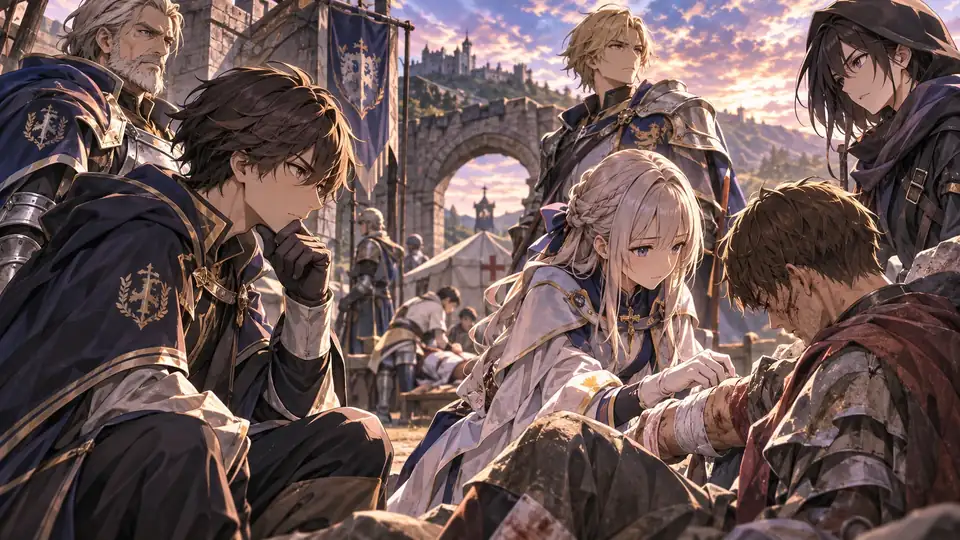
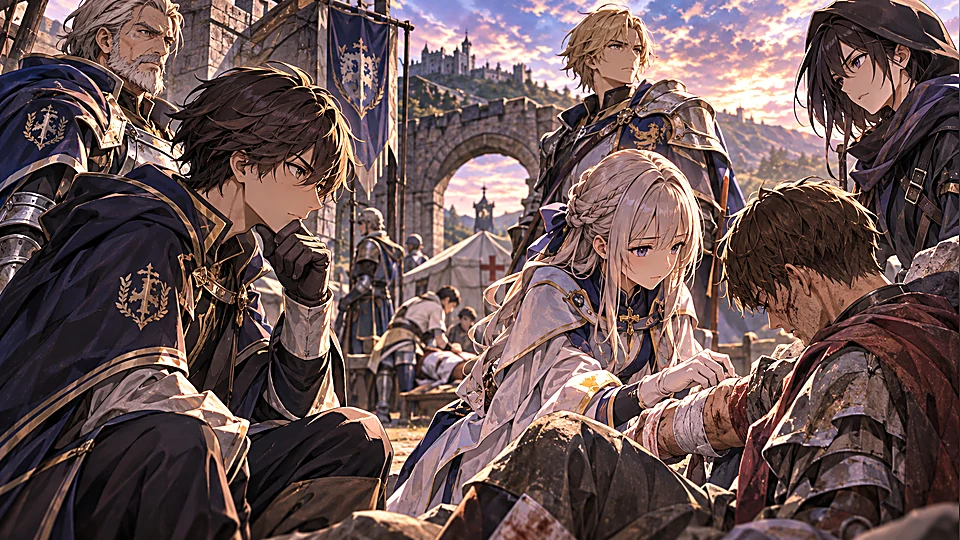
fix(story): replace all seven Chapter 1 repeated scenes and recast Garan voice (#157)
Register seven different real WebP images for c01-s01, fix mobile cache, switch Garan from frail elder to commanding knight voice, trigger VOICEVOX regeneration and publication, and test both art and speech. Existing 3D battle files are unchanged.

diff --git a/story-maintenance.html b/story-maintenance.html
@@ -83,7 +83,7 @@ import {mangaForStage} from './src/story-stage-manga.js';
 import {stageMangaImage} from './src/story-manga-art.js';
 import {applyCinematicImage,CINEMATIC_CAST_ASSETS} from './src/story-cinematic-assets.js';
 import {createMangaViewer} from './src/story-manga-viewer.js';
-import {createStoryVoiceDirector,STORY_VOICE_PROFILES} from './src/story-voice-director.js';
+import {createStoryVoiceDirector,STORY_VOICE_PROFILES,STORY_NARRATOR_PROFILE} from './src/story-voice-director.js';
 const $=id=>document.getElementById(id);
 const escapeHTML=x=>String(x??'').replace(/[&<>"']/g,c=>({'&':'&amp;','<':'&lt;','>':'&gt;','"':'&quot;',"'":'&#39;'}[c]));
 const active=loadGame(localStorage,sessionStorage);
@@ -159,8 +159,13 @@ $('characterGrid').onclick=event=>{
 void fetch('./audio/voicevox/manifest.json').then(r=>r.ok?r.json():null).then(data=>{
  const keys=Object.keys(data?.clips||{});
  const chapterClips=keys.filter(key=>key.startsWith('story::chapter::')).length;
- const panelClips=keys.filter(key=>key.startsWith('story::panel::')).length;
- $('voiceCoverage').textContent='VOICEVOX収録：章ナレーション '+chapterClips+'/20、各コマ台詞 '+panelClips+'/1400。未収録は端末の日本語ボイスに切り替わります。';
+ let currentPanelClips=0;
+ for(let ch=1;ch<=20;ch++)for(const stage of stagesInChapter(ch))for(const panel of mangaForStage(stage.id).panels){
+  const speaker=STORY_VOICE_PROFILES[panel.characterId]||STORY_NARRATOR_PROFILE;
+  const key='story::panel::'+panel.id+'::'+panel.text.slice(0,380)+'::'+speaker.voicevoxSpeaker;
+  if(data?.clips?.[key])currentPanelClips++;
+ }
+ $('voiceCoverage').textContent='VOICEVOX収録：章ナレーション '+chapterClips+'/20、現在の話者設定に合う各コマ台詞 '+currentPanelClips+'/1400。旧話者のキャッシュは完了数に含めません。';
 }).catch(()=>$('voiceCoverage').textContent='音声収録一覧を取得できません。端末読み上げで確認できます。');
 setChapter(Number(new URLSearchParams(location.search).get('chapter'))||1);
 renderCast();

diff --git a/src/story-voice-director.js b/src/story-voice-director.js
@@ -4,7 +4,7 @@
  */
 import {STORY_KEY_PEOPLE} from './story-cinematic.js';
 const characters={
- lucia:['四国めたん',.95,1.1],garan:['ちび式じい',.82,.77],iris:['雨晴はう',.92,1.16],
+ lucia:['四国めたん',.95,1.1],garan:['剣崎雌雄',1.02,.95],iris:['雨晴はう',.92,1.16],
  shion:['玄野武宏',.94,.88],kai:['白上虎太郎',1.07,1.03],leon:['剣崎雌雄',.87,.80],
  fio:['九州そら',.96,1.09],edo:['栗田まろん',.89,.91],mina:['春歌ナナ',1.04,1.30],
  noel:['中国うさぎ',.93,1.12],raizen:['玄野武宏',.86,.80],vald:['麒ヶ島宗麟',.78,.74],

diff --git a/src/story-cinematic-assets.js b/src/story-cinematic-assets.js
@@ -99,7 +99,7 @@ export function applyCinematicImage(node,panel,{background=false}={}){
  node.dataset.cinematicKey=key;
  const dedicated=individualStoryPanelAsset(panel);
  void (async()=>{
-  if(dedicated&&await getPicture(dedicated))return dedicated;
+  if(dedicated&&await getPicture(dedicated+'?panelrev=20261111-7'))return dedicated+'?panelrev=20261111-7';
   return cinematicPanelImage(panel);
  })().then(url=>{
   if(!url||node.dataset.cinematicKey!==key||!node.isConnected)return;
